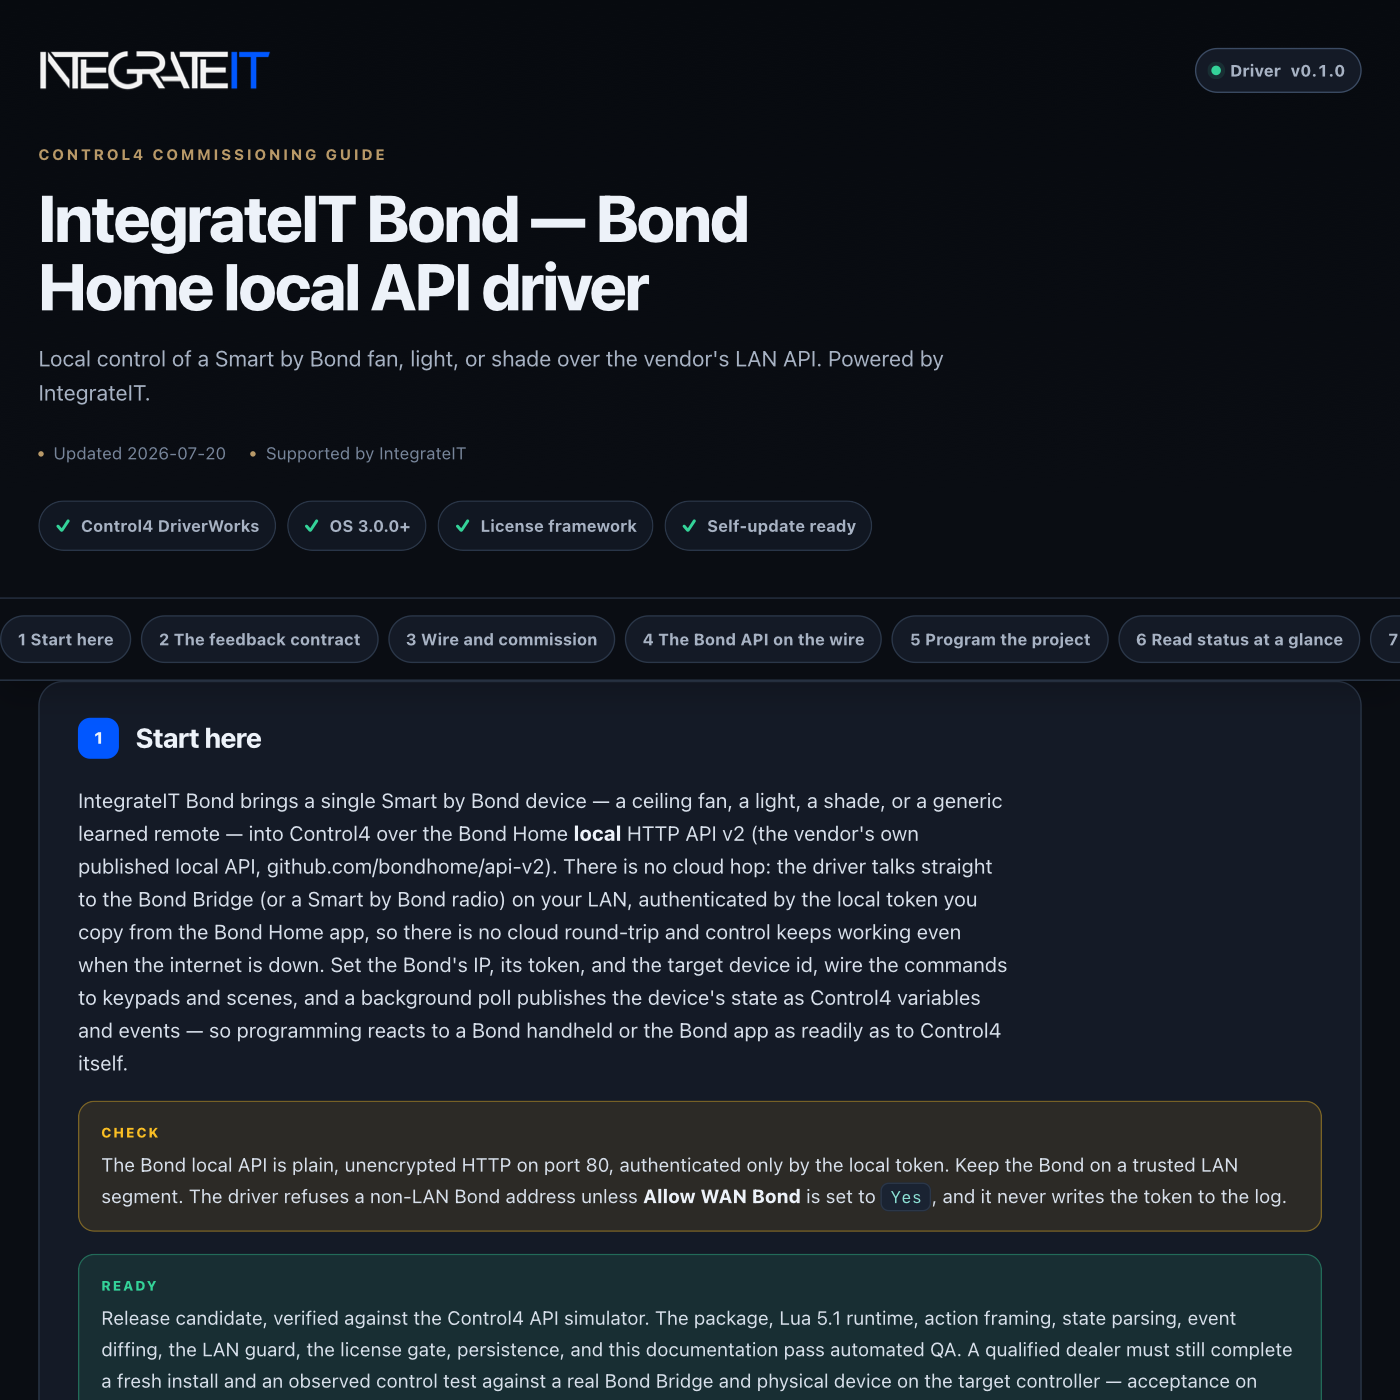
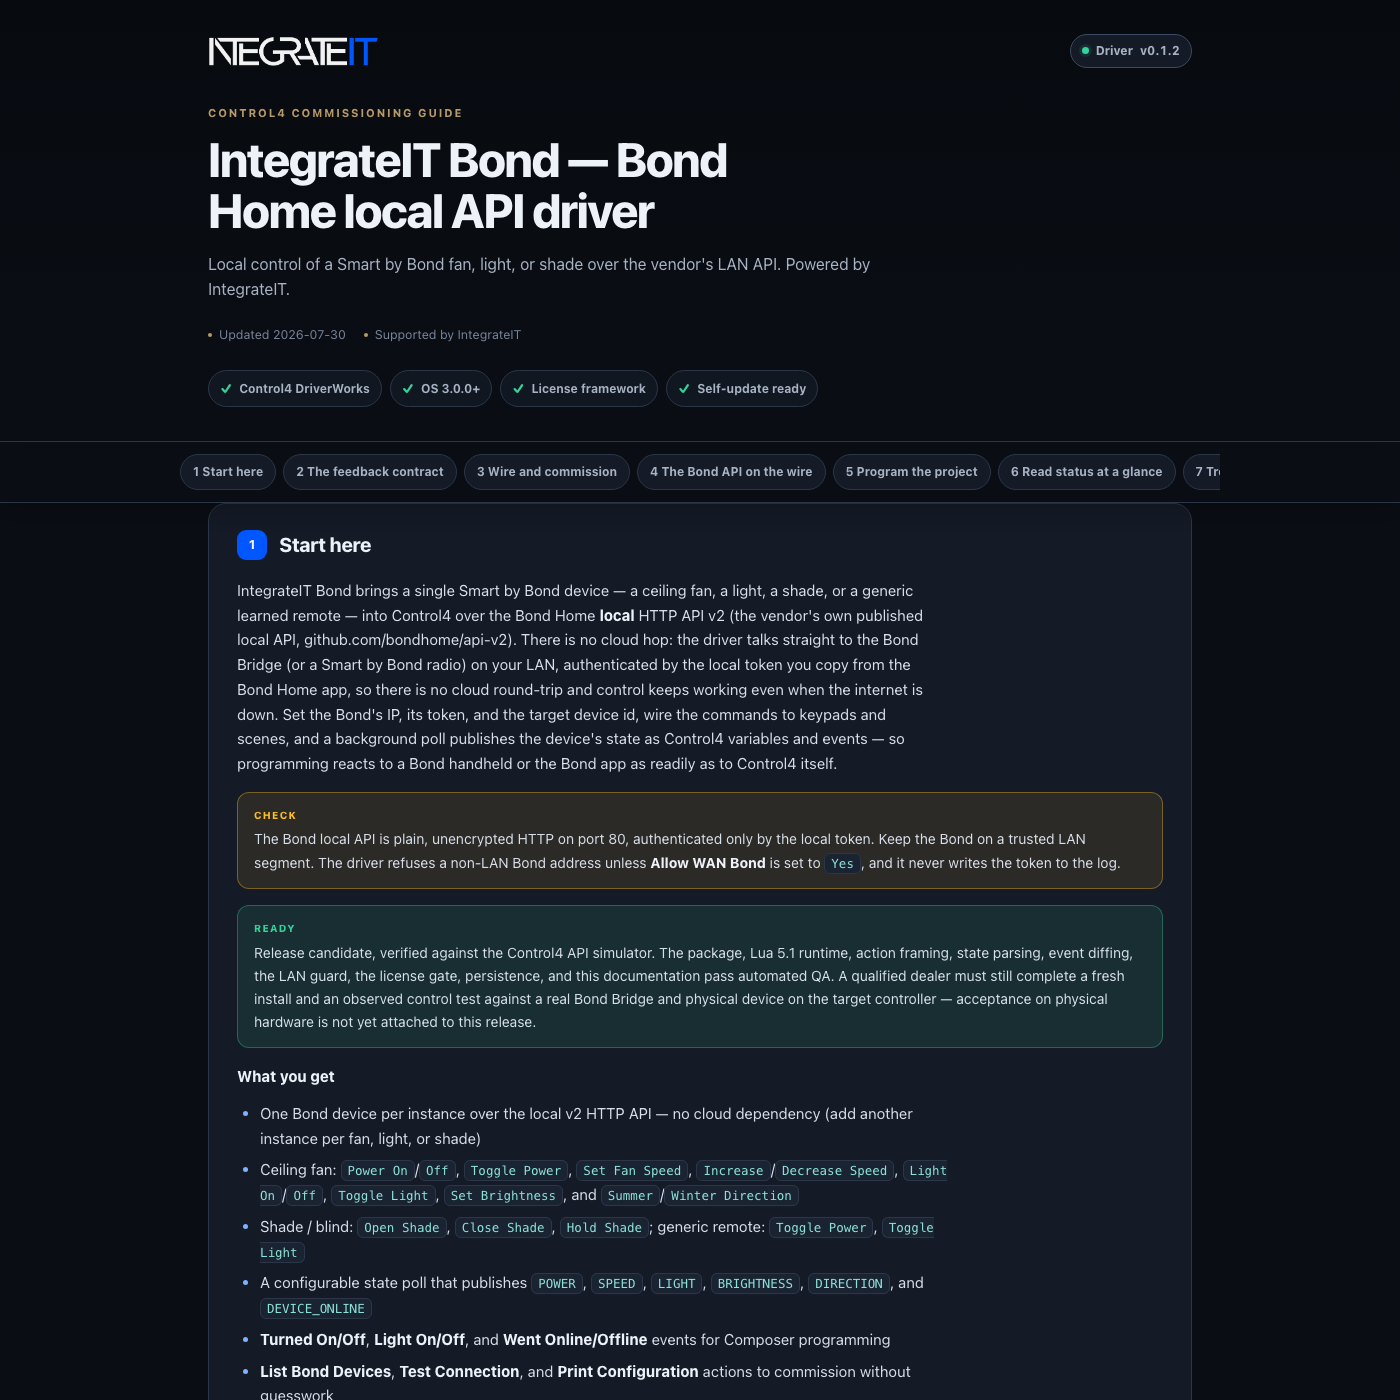
control4: publish driver channel (integrateit_bond 0.1.3)

diff --git a/control4/integrateit_bond/documentation.html b/control4/integrateit_bond/documentation.html
@@ -179,13 +179,13 @@ td code{white-space:normal}
     <div class="wrap">
       <div class="brandbar">
[1 lines of base64/hex data omitted]
-        <span class="version"><span class="word">Driver</span> v0.1.2</span>
+        <span class="version"><span class="word">Driver</span> v0.1.3</span>
       </div>
       <p class="eyebrow">Control4 commissioning guide</p>
       <h1>IntegrateIT Bond — Bond Home local API driver</h1>
       <p class="sub">Local control of a Smart by Bond fan, light, or shade over the vendor's LAN API. Powered by IntegrateIT.</p>
       <div class="meta">
-        <span>Updated 2026-07-30</span>
+        <span>Updated 2026-07-31</span>
         <span>Supported by IntegrateIT</span>
       </div>
       <div class="readiness" aria-label="Driver capabilities">
@@ -217,13 +217,14 @@ td code{white-space:normal}
     <li><b>List Bond Devices</b>, <b>Test Connection</b>, and <b>Print Configuration</b> actions to commission without guesswork</li>
     <li>LAN-only destination safeguard, the Bond token never logged, and MAC-locked IntegrateIT licensing</li>
   </ul>
+  <div class="note"><b>There is now a dedicated driver per Bond device type, and for most installs one of them is the better choice.</b> IntegrateIT Bond Ceiling Fan (<code>CF</code>), Bond Light (<code>LT</code>), Bond Shade (<code>MS</code>), Bond Fireplace (<code>FP</code>), and Bond Generic Device (<code>GX</code>) each model one type properly: BPUP push state instead of polling, a device-type gate that refuses the wrong device by name, an advertised-action gate, and assumed-state labeling that says out loud what Bond does and does not measure. This driver remains the one-instance-covers-everything option — useful when you want a single driver across mixed types, or when you are already programmed against its command names — and it stays supported. Reach for the dedicated driver on a new install.</div>
 </section>
 
 <section class="card" id="feedback" data-card="feedback">
   <h2><span class="n">2</span> The feedback contract</h2>
   <p>State feedback is <b>polled, not pushed</b>. The driver reads <code>GET /v2/devices/&lt;id&gt;/state</code> on the <b>Poll Interval (s)</b> (default 5), so a change made from a Bond remote or the Bond app appears on the next poll, not instantly. This is real device state — but only as fresh as the last poll.</p>
   <ul>
-    <li><b>Boot is silent, then honest.</b> After a controller reboot <code>POWER</code>, <code>LIGHT</code>, <code>SPEED</code>, <code>BRIGHTNESS</code>, and <code>DIRECTION</code> are unknown until the first poll lands. That first poll *adopts* the device's current power and light state silently — it does not fire a spurious <b>Turned On/Off</b> or <b>Light On/Off</b>. Events fire only on a genuine change between two observed polls.</li>
+    <li><b>Boot is silent, then honest.</b> After a controller reboot <code>POWER</code>, <code>LIGHT</code>, <code>SPEED</code>, <code>BRIGHTNESS</code>, and <code>DIRECTION</code> are unknown until the first poll lands. That first poll <i>adopts</i> the device's current power and light state silently — it does not fire a spurious <b>Turned On/Off</b> or <b>Light On/Off</b>. Events fire only on a genuine change between two observed polls.</li>
     <li><b>Reachability is a real signal.</b> Any HTTP reply — even a <code>401</code> or <code>404</code> — proves the Bond answered, so <code>DEVICE_ONLINE</code> goes true and <b>Went Online</b> fires (including the very first time it is seen). Only a transport failure (no response at all) marks the device Offline and fires <b>Went Offline</b>.</li>
     <li><b>Commands are not acknowledgements.</b> Bond returns no new state inline with a command, so after a successful action the driver schedules a fast follow-up poll (~400 ms) to catch the published variables up. Until that poll, the variables reflect the last observed state, not the command you just sent.</li>
     <li>BPUP UDP push (port 30007) and mDNS (<code>_bond._tcp</code>) discovery are documented by Bond but out of scope for this version — this driver is poll-only.</li>
@@ -298,7 +299,7 @@ td code{white-space:normal}
     <tr><td><code>Fan Max Speed</code></td><td>The device's reported maximum</td><td><code>Unknown</code> until the first reachable poll runs <code>…/properties</code></td></tr>
     <tr><td><code>License Status</code></td><td>Activated, or Lenient during commissioning</td><td>Enter a key before selecting Strict enforcement</td></tr>
   </table>
-  <p><b>Print Configuration</b> writes the IP, device id, type, poll interval, WAN-allowed flag, learned max speed, and the IntegrateIT identity to the Lua output window. It reports the token *length* only — never the token itself, and never the license key.</p>
+  <p><b>Print Configuration</b> writes the IP, device id, type, poll interval, WAN-allowed flag, learned max speed, and the IntegrateIT identity to the Lua output window. It reports the token <i>length</i> only — never the token itself, and never the license key.</p>
 </section>
 
 <section class="card" id="troubleshooting" data-card="troubleshooting">
@@ -324,7 +325,7 @@ td code{white-space:normal}
   <p>Lenient mode allows commissioning without an activated key and keeps <b>License Status</b> visible. Strict mode blocks all Bond control until the Ops Portal has minted and validated a key for that controller; the state poll and feedback continue either way. Installing this package does not itself mint or activate a controller license. The shared IntegrateIT license and update services use the controller identity, driver slug, version, configured license key, and update channel as documented in the reference below.</p>
 <section class="card" id="reference" data-card="reference">
   <h2><span class="n">R</span> Reference</h2>
-  <p>Generated from the driver manifest at build time — always matches this build (v0.1.2).</p>
+  <p>Generated from the driver manifest at build time — always matches this build (v0.1.3).</p>
   <h3>Properties</h3>
   <table>
     <tr><th>Property</th><th>Type</th><th>Default</th><th>Description</th></tr>
@@ -465,7 +466,9 @@ td code{white-space:normal}
     <section class="card" id="changelog" data-card="changelog">
   <h2><span class="n">V</span> Version history</h2>
   <div class="chg">
-    <div class="rel"><b>v0.1.2</b> <span class="pill green">current</span><span class="d">2026-07-30</span>
+    <div class="rel"><b>v0.1.3</b> <span class="pill green">current</span><span class="d">2026-07-31</span>
+      <ul><li>Certification pass: this driver was read end to end against its own manifest and code — every command, action, event, variable and property name checked for a single spelling across the manifest, the code and this guide; every programming recipe rebuilt from names that actually exist; the commissioning path checked to end in something a dealer can observe; and every claim in the documentation verified against what the code does rather than what it intended.</li><li>Documentation rendering: emphasis written as *emphasis* in the source now renders as emphasis in the packaged Documentation tab instead of shipping as literal asterisks. Protocol strings that legitimately contain a star, quoted inside code, stay exactly as written.</li></ul></div>
+    <div class="rel"><b>v0.1.2</b><span class="d">2026-07-30</span>
       <ul><li>A numeric property containing nan or inf (possible through a hand-edited project file) passed tonumber, defeated every range clamp (all nan comparisons are false), and could reach a timer interval or the wire. Numeric properties now fall back to their documented default when non-finite, and the transmit chokepoint refuses a non-finite value by name.</li><li>The action argument path is now double-hardened: the property reader falls back to its default on non-finite input, and the single transmit chokepoint refuses a non-finite argument by name - the same backstop the rest of the Bond family carries.</li><li>Adds the fleet-standard Run Diagnostics and Run Self-Test dealer actions: read-only, license-independent, cached-state honesty. Diagnostics reports what the driver has already observed - never probing the network, never printing a secret. Self-Test proves the shared layer locally and ends PASS or FAIL.</li></ul></div>
     <div class="rel"><b>v0.1.1</b><span class="d">2026-07-26</span>
       <ul><li>Documentation rebuilt to the IntegrateIT commissioning-guide standard: uniform sections, honest contracts, verified claim-by-claim against the code.</li></ul></div>

diff --git a/control4/integrateit_bond/CHANGELOG.md b/control4/integrateit_bond/CHANGELOG.md
@@ -1,5 +1,9 @@
 # Changelog — IntegrateIT Bond
 
+## [0.1.3] - 2026-07-31
+- Certification pass: this driver was read end to end against its own manifest and code — every command, action, event, variable and property name checked for a single spelling across the manifest, the code and this guide; every programming recipe rebuilt from names that actually exist; the commissioning path checked to end in something a dealer can observe; and every claim in the documentation verified against what the code does rather than what it intended.
+- Documentation rendering: emphasis written as *emphasis* in the source now renders as emphasis in the packaged Documentation tab instead of shipping as literal asterisks. Protocol strings that legitimately contain a star, quoted inside code, stay exactly as written.
+
 ## [0.1.2] - 2026-07-30
 - A numeric property containing nan or inf (possible through a hand-edited project file) passed tonumber, defeated every range clamp (all nan comparisons are false), and could reach a timer interval or the wire. Numeric properties now fall back to their documented default when non-finite, and the transmit chokepoint refuses a non-finite value by name.
 - The action argument path is now double-hardened: the property reader falls back to its default on non-finite input, and the single transmit chokepoint refuses a non-finite argument by name - the same backstop the rest of the Bond family carries.
